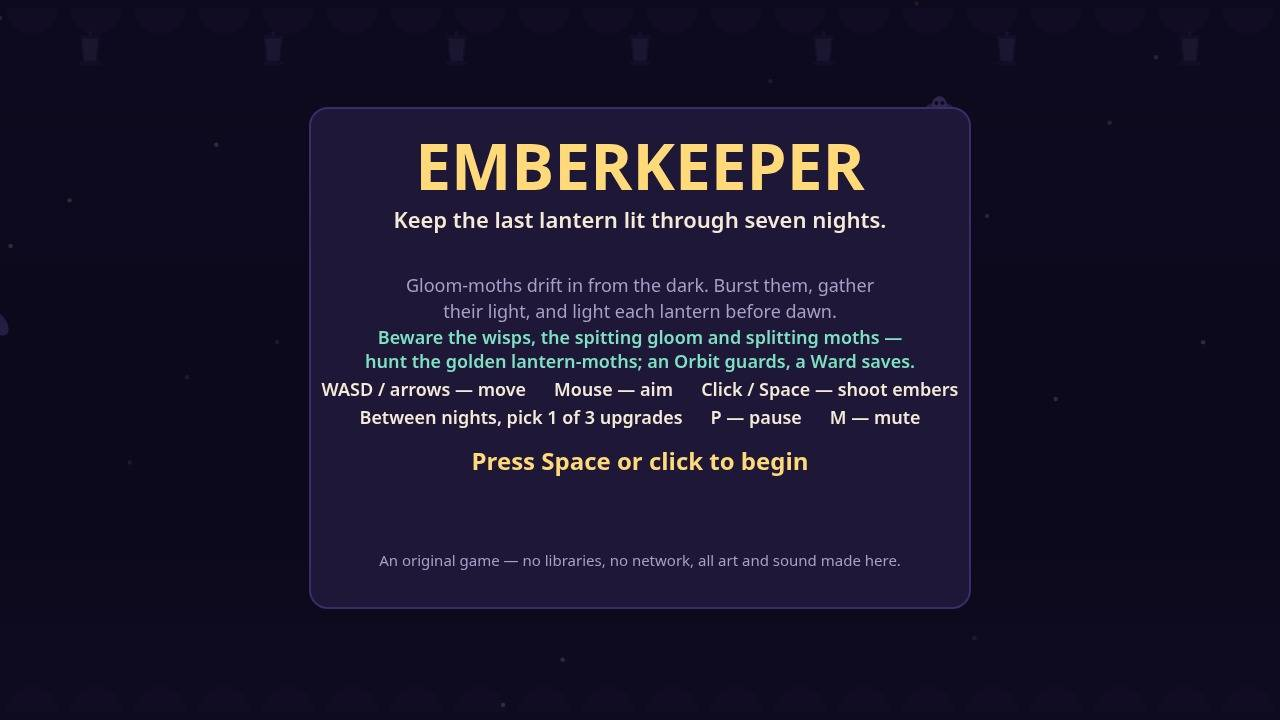
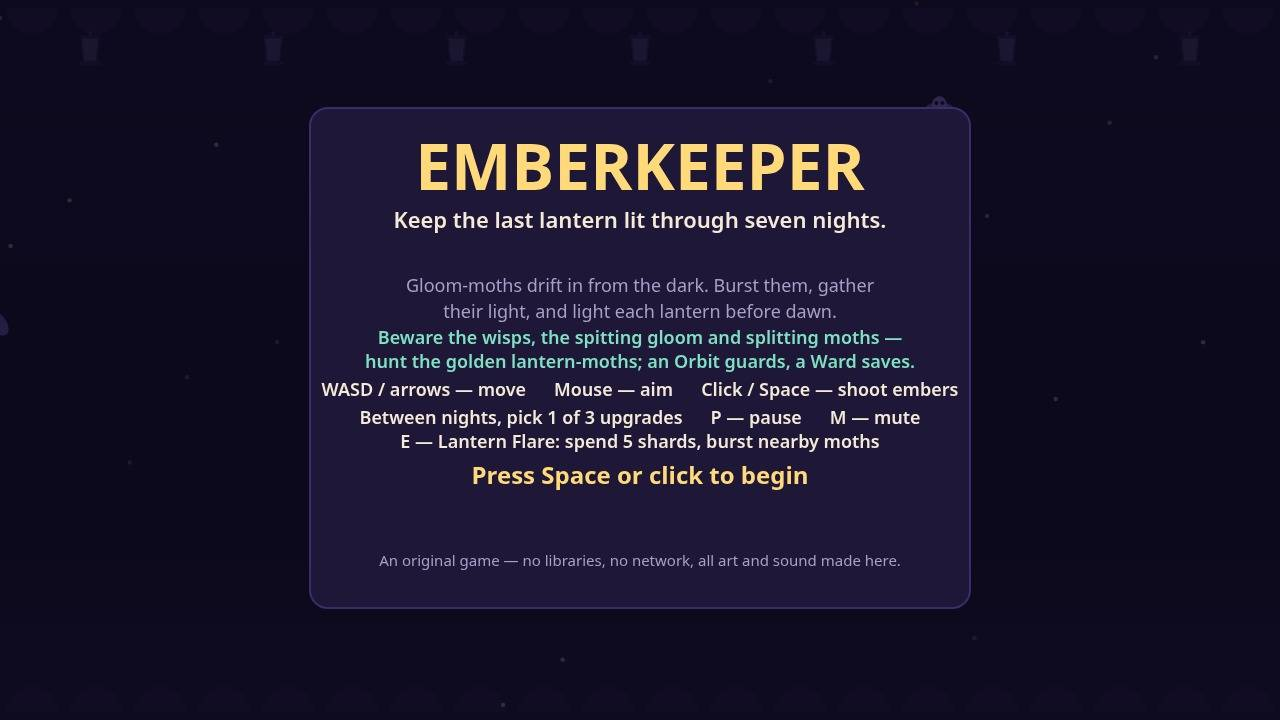
Quality round 3b: Lantern Flare active ability + Flawless Night bonus
- Lantern Flare (key E): spend 5 shards from the lantern meter to burst
  every moth and gloom orb within 220px; 8s cooldown; HUD shows READY /
  cooldown / needs-shards; own SFX + announce. Safety bought with progress.
- Flawless Night: clearing a night without losing a heart pays +250
  (FLAWLESS! floating text; visible in the victory shot).
- Title controls fixed: the new Flare line overlapped 'Press Space' (moved
  to y484); title re-shot and re-read.
- Autopilot 15 seeds x 4 modes: 60/60 wins; mean score +5.3% first-pick
  (32,653 -> 34,387) from flawless bonuses; unit checks r4 9/9 + r5 6/6.

Changed region(s): [[0.3125, 0.5806, 0.6875, 0.7028]]

diff --git a/game/src/world.js b/game/src/world.js
@@ -10,6 +10,8 @@ import {
   Darter,
   Elder,
   FIELD,
+  FLARE,
+  FLAWLESS_BONUS,
   GloomOrb,
   LanternMoth,
   MOTH,
@@ -40,6 +42,7 @@ export const EVENT_NOVA = 128;
 export const EVENT_ENRAGE = 256;
 export const EVENT_WARD = 512;
 export const EVENT_SPIT = 1024;
+export const EVENT_FLARE = 2048;
 
 export const KIND_MOTH = 'moth';
 export const KIND_DARTER = 'darter';
@@ -102,6 +105,10 @@ export function createWorld(random) {
     wardBlocks: 0,
     surgeTimer: 0,
     surgeTriggers: 0,
+    flareTimer: 0,
+    flareUses: 0,
+    hitsThisNight: 0,
+    flawlessNights: 0,
     time: 0,
     kills: 0,
     nightCleared: false,
@@ -118,6 +125,7 @@ export function createWorld(random) {
     state.boss = null;
     state.nightCleared = false;
     state.ward = state.upgrades.ward;
+    state.hitsThisNight = 0;
     state.moths.length = 0;
     state.orbs.length = 0;
     state.shards.length = 0;
@@ -155,6 +163,10 @@ export function createWorld(random) {
     state.wardBlocks = 0;
     state.surgeTimer = 0;
     state.surgeTriggers = 0;
+    state.flareTimer = 0;
+    state.flareUses = 0;
+    state.hitsThisNight = 0;
+    state.flawlessNights = 0;
     state.time = 0;
     state.offer = [];
     resetNight(1);
@@ -411,6 +423,60 @@ export function createWorld(random) {
     return events;
   }
 
+  /** The Matriarch falls: score, a burst, and her 30 shards. Shared by embers and the flare. */
+  function killBoss(events) {
+    const b = state.boss;
+    state.score += 200 * Math.max(state.combo, 1);
+    burst(b.x, b.y, '#b8579e', 40, 260);
+    dropShards(b.x, b.y, BOSS.shards);
+    addText(b.x, b.y - 60, '+200', '#ffe9a8');
+    state.boss = null;
+    return events | EVENT_BURST;
+  }
+
+  /** Lantern Flare (key E): spend 5 shards from the lantern meter to burst every moth
+   * and gloom orb close to the keeper. On cooldown, or short of shards, it does nothing. */
+  function flare() {
+    if (state.flareTimer > 0 || state.shardsCollected < FLARE.cost) return 0;
+    const p = state.player;
+    state.shardsCollected -= FLARE.cost;
+    state.flareTimer = FLARE.cooldown;
+    state.flareUses += 1;
+    let events = EVENT_FLARE;
+    for (let j = state.moths.length - 1; j >= 0; j -= 1) {
+      const m = state.moths[j];
+      const dx = m.x - p.x;
+      const dy = m.y - p.y;
+      if (dx * dx + dy * dy < (FLARE.radius + m.radius) * (FLARE.radius + m.radius)) {
+        m.hp -= FLARE.damage;
+        m.flash = 0.12;
+        if (m.hp <= 0) events = killMoth(j, events);
+      }
+    }
+    if (state.boss) {
+      const b = state.boss;
+      const dx = b.x - p.x;
+      const dy = b.y - p.y;
+      if (dx * dx + dy * dy < (FLARE.radius + b.radius) * (FLARE.radius + b.radius)) {
+        b.hp -= FLARE.damage;
+        b.flash = 0.12;
+        if (b.hp <= 0) events = killBoss(events);
+      }
+    }
+    for (let j = state.orbs.length - 1; j >= 0; j -= 1) {
+      const g = state.orbs[j];
+      const dx = g.x - p.x;
+      const dy = g.y - p.y;
+      if (dx * dx + dy * dy < (FLARE.radius + GloomOrb.radius) * (FLARE.radius + GloomOrb.radius)) {
+        state.orbs.splice(j, 1);
+        state.orbsShotDown += 1;
+      }
+    }
+    burst(p.x, p.y, '#ffd97a', 26, 320);
+    addText(p.x, p.y - 30, 'FLARE!', '#ffd97a');
+    return events;
+  }
+
   function hurtPlayer(events) {
     const p = state.player;
     if (p.invuln > 0 || p.hearts <= 0) return events;
@@ -427,6 +493,7 @@ export function createWorld(random) {
     p.invuln = PLAYER.invulnerable;
     state.combo = 0;
     state.comboTimer = 0;
+    state.hitsThisNight += 1;
     burst(p.x, p.y, '#ff6b6b', 16, 220);
     events |= EVENT_HIT;
     if (p.hearts <= 0) events |= EVENT_OVER;
@@ -501,14 +568,7 @@ export function createWorld(random) {
           b.hp -= e.damage;
           b.flash = 0.12;
           burst(e.x, e.y, '#ffb347', 5, 140);
-          if (b.hp <= 0) {
-            state.score += 200 * Math.max(state.combo, 1);
-            burst(b.x, b.y, '#b8579e', 40, 260);
-            dropShards(b.x, b.y, BOSS.shards);
-            addText(b.x, b.y - 60, '+200', '#ffe9a8');
-            state.boss = null;
-            events |= EVENT_BURST;
-          }
+          if (b.hp <= 0) events = killBoss(events);
           if (e.pierce > 0) e.pierce -= 1;
           else dead = true;
         }
@@ -735,6 +795,7 @@ export function createWorld(random) {
       if (state.comboTimer <= 0) state.combo = 0;
     }
     if (state.surgeTimer > 0) state.surgeTimer -= dt;
+    if (state.flareTimer > 0) state.flareTimer -= dt;
     const p = state.player;
     if (attract) {
       if (state.moths.length < 6 && random.next() < dt * 0.9) spawnMoth();
@@ -786,11 +847,17 @@ export function createWorld(random) {
     if (state.shardsCollected >= state.quota && bossGone && !state.nightCleared) {
       state.nightCleared = true;
       state.score += 100 * state.night;
+      // A night cleared without losing a heart pays the Flawless bonus.
+      if (state.hitsThisNight === 0) {
+        state.score += FLAWLESS_BONUS;
+        state.flawlessNights += 1;
+        addText(state.player.x, state.player.y - 30, `FLAWLESS! +${FLAWLESS_BONUS}`, '#ffd97a');
+      }
       if (state.night >= NIGHTS_TO_WIN) return events | EVENT_WIN;
       return events | EVENT_NIGHT_CLEAR;
     }
     return events;
   }
 
-  return { state, reset, resetNight, step, rollUpgrades, applyUpgrade };
+  return { state, reset, resetNight, step, flare, rollUpgrades, applyUpgrade };
 }

diff --git a/game/src/render.js b/game/src/render.js
@@ -577,6 +577,18 @@ export function createRenderer(canvas) {
       text(state.novaTimer <= 0.5 ? 'Nova READY' : `Nova ${Math.ceil(state.novaTimer)}s`, FIELD.width - 24, 72, '#ffb347', F(700, 16));
       ctx.textAlign = 'left';
     }
+    // Lantern Flare (E): ready, cooling down, or short of shards.
+    ctx.textAlign = 'right';
+    const flareY = state.upgrades.nova > 0 ? 96 : 72;
+    text(
+      state.flareTimer > 0 ? `Flare ${Math.ceil(state.flareTimer)}s`
+        : state.shardsCollected >= 5 ? 'E — Flare READY'
+          : 'Flare needs 5 shards',
+      FIELD.width - 24, flareY,
+      state.flareTimer > 0 || state.shardsCollected < 5 ? PALETTE.muted : '#ffd97a',
+      F(700, 16),
+    );
+    ctx.textAlign = 'left';
     ctx.textAlign = 'right';
     text(muted ? 'M — sound off' : 'M — mute · P — pause', FIELD.width - 24, FIELD.height - 18, PALETTE.muted, F(600, 14));
     ctx.textAlign = 'left';
@@ -609,7 +621,8 @@ export function createRenderer(canvas) {
     text('hunt the golden lantern-moths; an Orbit guards, a Ward saves.', FIELD.width / 2, 368, PALETTE.wisp, F(600, 18));
     text('WASD / arrows — move      Mouse — aim      Click / Space — shoot embers', FIELD.width / 2, 396, PALETTE.text, F(600, 18));
     text('Between nights, pick 1 of 3 upgrades      P — pause      M — mute', FIELD.width / 2, 424, PALETTE.text, F(600, 18));
-    text('Press Space or click to begin', FIELD.width / 2, 470, PALETTE.lanternGlow, F(700, 24));
+    text('E — Lantern Flare: spend 5 shards, burst nearby moths', FIELD.width / 2, 448, PALETTE.text, F(600, 18));
+    text('Press Space or click to begin', FIELD.width / 2, 484, PALETTE.lanternGlow, F(700, 24));
     if (best > 0) {
       text(`Best score ${best}`, FIELD.width / 2, 512, PALETTE.muted, F(600, 18));
     }

diff --git a/game/src/main.js b/game/src/main.js
@@ -8,8 +8,8 @@
 import { BEST_KEY, FIELD, NIGHTS_TO_WIN, STEP, nightTheme } from './config.js';
 import { createRandom } from './random.js';
 import { createAudio } from './audio.js';
-import { createWorld, EVENT_BOSS, EVENT_BURST, EVENT_ENRAGE, EVENT_HIT, EVENT_NIGHT_CLEAR, EVENT_NOVA, EVENT_OVER, EVENT_PICKUP, EVENT_SPIT, EVENT_WARD, EVENT_WIN } from './world.js';
-import { ACTION_CONFIRM, ACTION_MUTE, ACTION_PAUSE, ACTION_PICK_1, ACTION_PICK_2, ACTION_PICK_3, ACTION_RESTART, createInput } from './input.js';
+import { createWorld, EVENT_BOSS, EVENT_BURST, EVENT_ENRAGE, EVENT_FLARE, EVENT_HIT, EVENT_NIGHT_CLEAR, EVENT_NOVA, EVENT_OVER, EVENT_PICKUP, EVENT_SPIT, EVENT_WARD, EVENT_WIN } from './world.js';
+import { ACTION_CONFIRM, ACTION_FLARE, ACTION_MUTE, ACTION_PAUSE, ACTION_PICK_1, ACTION_PICK_2, ACTION_PICK_3, ACTION_RESTART, createInput } from './input.js';
 import { CARD, createRenderer, SCREEN_OVER, SCREEN_PAUSED, SCREEN_PLAY, SCREEN_TITLE, SCREEN_UPGRADE, SCREEN_WIN } from './render.js';
 import { stageShot } from './shots.js';
 
@@ -119,6 +119,13 @@ function runGame() {
     if (actions & ACTION_MUTE) {
       audio.setMuted(!audio.isMuted());
       announce(audio.isMuted() ? 'Sound off.' : 'Sound on.');
+    }
+    if (screen === SCREEN_PLAY && (actions & ACTION_FLARE)) {
+      const ev = world.flare();
+      if (ev & EVENT_FLARE) {
+        audio.flare();
+        announce('Lantern Flare — the dark burns back.');
+      }
     }
     if (screen === SCREEN_TITLE) {
       if (actions & ACTION_CONFIRM) startGame();

diff --git a/game/src/input.js b/game/src/input.js
@@ -1,6 +1,7 @@
 // Keyboard and mouse, read fresh every frame. WASD or arrows move; the mouse aims; holding
-// the left button (or Space) fires. 1/2/3 pick an upgrade card; P or Escape pauses; M mutes;
-// R restarts from the end screens. Actions are consumed once, movement is a live direction.
+// the left button (or Space) fires. E spends 5 shards on a Lantern Flare; 1/2/3 pick an
+// upgrade card; P or Escape pauses; M mutes; R restarts from the end screens. Actions are
+// consumed once, movement is a live direction.
 
 export const ACTION_CONFIRM = 1;
 export const ACTION_PAUSE = 2;
@@ -9,6 +10,7 @@ export const ACTION_RESTART = 8;
 export const ACTION_PICK_1 = 16;
 export const ACTION_PICK_2 = 32;
 export const ACTION_PICK_3 = 64;
+export const ACTION_FLARE = 128;
 
 export function createInput(canvas) {
   const keys = new Set();
@@ -23,6 +25,7 @@ export function createInput(canvas) {
     Space: ACTION_CONFIRM, Enter: ACTION_CONFIRM,
     KeyP: ACTION_PAUSE, Escape: ACTION_PAUSE,
     KeyM: ACTION_MUTE, KeyR: ACTION_RESTART,
+    KeyE: ACTION_FLARE,
     Digit1: ACTION_PICK_1, Numpad1: ACTION_PICK_1,
     Digit2: ACTION_PICK_2, Numpad2: ACTION_PICK_2,
     Digit3: ACTION_PICK_3, Numpad3: ACTION_PICK_3,

diff --git a/game/src/config.js b/game/src/config.js
@@ -188,6 +188,19 @@ export const ORBIT = {
   hitCooldown: 0.5,
 };
 
+/** Lantern Flare: press E to spend shards from the lantern meter and burst every
+ * moth (and gloom orb) close to the keeper. Shards are the night's quota, so a
+ * flare buys safety with progress — and it has a cooldown. */
+export const FLARE = {
+  cost: 5,
+  radius: 220,
+  damage: 2,
+  cooldown: 8,
+};
+
+/** Clearing a night without losing a heart pays a Flawless bonus. */
+export const FLAWLESS_BONUS = 250;
+
 export const COMBO = {
   window: 2.5,
   step: 1,

diff --git a/game/src/audio.js b/game/src/audio.js
@@ -116,6 +116,11 @@ export function createAudio() {
       tone(240, 0.2, 'sawtooth', 0.10, 120);
       tone(180, 0.14, 'sine', 0.08, 90, 0.05);
     },
+    flare() {
+      if (!ensure()) return;
+      [523, 659, 784, 1047].forEach((f, i) => tone(f, 0.3, 'triangle', 0.13, null, i * 0.03));
+      noise(0.25, 0.12, 3200);
+    },
     ward() {
       if (!ensure()) return;
       [1047, 1319, 1568].forEach((f, i) => tone(f, 0.18, 'triangle', 0.12, null, i * 0.05));

diff --git a/README.md b/README.md
@@ -12,6 +12,8 @@ them with embers, gather their light, and light all seven lanterns before dawn.
 
 - **WASD / arrows** — move the keeper
 - **Mouse** — aim · **Click / Space** — shoot embers
+- **E** — Lantern Flare: spend 5 shards from the lantern meter to burst every
+  moth and gloom orb nearby (8s cooldown) — safety bought with progress
 - **1 / 2 / 3 or click a card** — pick an upgrade between nights
 - **P / Esc** — pause · **M** — mute · **R** — restart
 
@@ -37,7 +39,8 @@ lanterns and dawn breaks — you win. Lose all hearts and the light goes out.
 After a win, Space keeps playing endless nights.
 
 Score comes from bursts (with a combo multiplier for quick successive kills),
-shards, and night bonuses; the best score is kept in the browser. Hold the
+shards, and night bonuses; clearing a night without losing a heart pays a
+Flawless +250. The best score is kept in the browser. Hold the
 combo at its max and the lantern surges — embers hit +1 harder for a few
 seconds. The last night is the Dawn Rush: the garden spawns faster and the
 moth cap rises, so hold the line until dawn.
@@ -52,7 +55,7 @@ moth cap rises, so hold the line until dawn.
   Watch, Swarm Night, the Matriarch Returns, and the Dawn Rush finale.
 - Original art drawn in code (no images) and original sound synthesised with
   WebAudio (no audio files): shoot, burst, pickup, hurt, lantern, upgrade,
-  boss, nova, ward, spit, victory and defeat cues over a soft ambient pad.
+  boss, nova, ward, spit, flare, victory and defeat cues over a soft ambient pad.
 - No libraries, no network, no build step: plain static files under `game/`,
   playable offline in a desktop browser from `game/index.html`.
 
